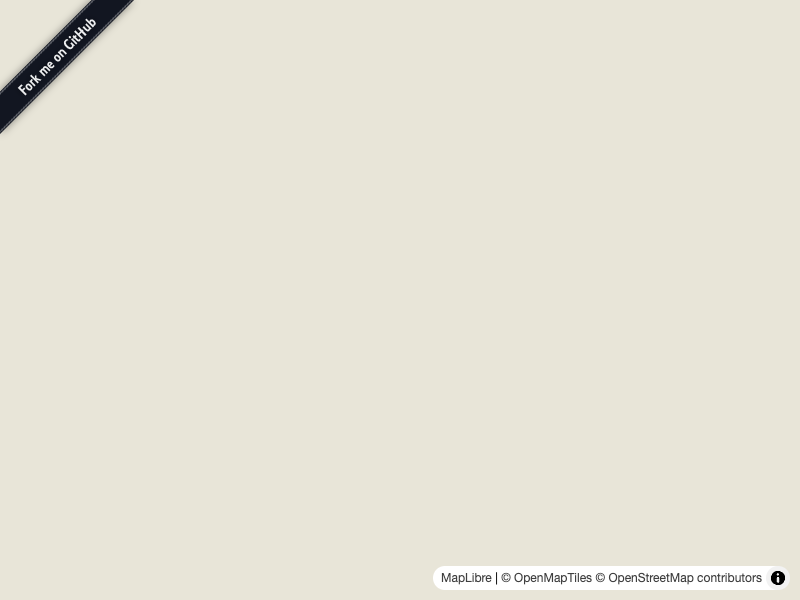
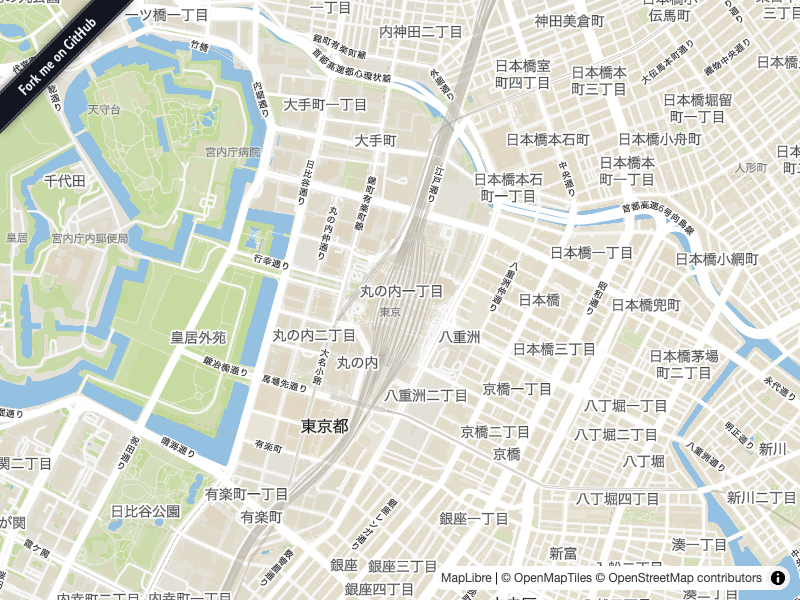
update screenshot

diff --git a/scripts/screenshot.ts b/scripts/screenshot.ts
@@ -5,6 +5,18 @@ test("capture screenshot for README", async ({ page }) => {
   await page.waitForFunction(() => (window as any).__e2e != null, {
     timeout: 30_000,
   });
-  await page.waitForTimeout(3000);
+
+  // マップのタイル読み込み完了を待つ
+  await page.waitForFunction(
+    () => {
+      const map = (window as any).__e2e?.map;
+      return map && typeof map.loaded === "function" && map.loaded();
+    },
+    { timeout: 60_000 },
+  );
+
+  // レンダリング安定のため少し待つ
+  await page.waitForTimeout(1000);
+
   await page.locator("#map").screenshot({ path: "assets/screenshot.png" });
 });
